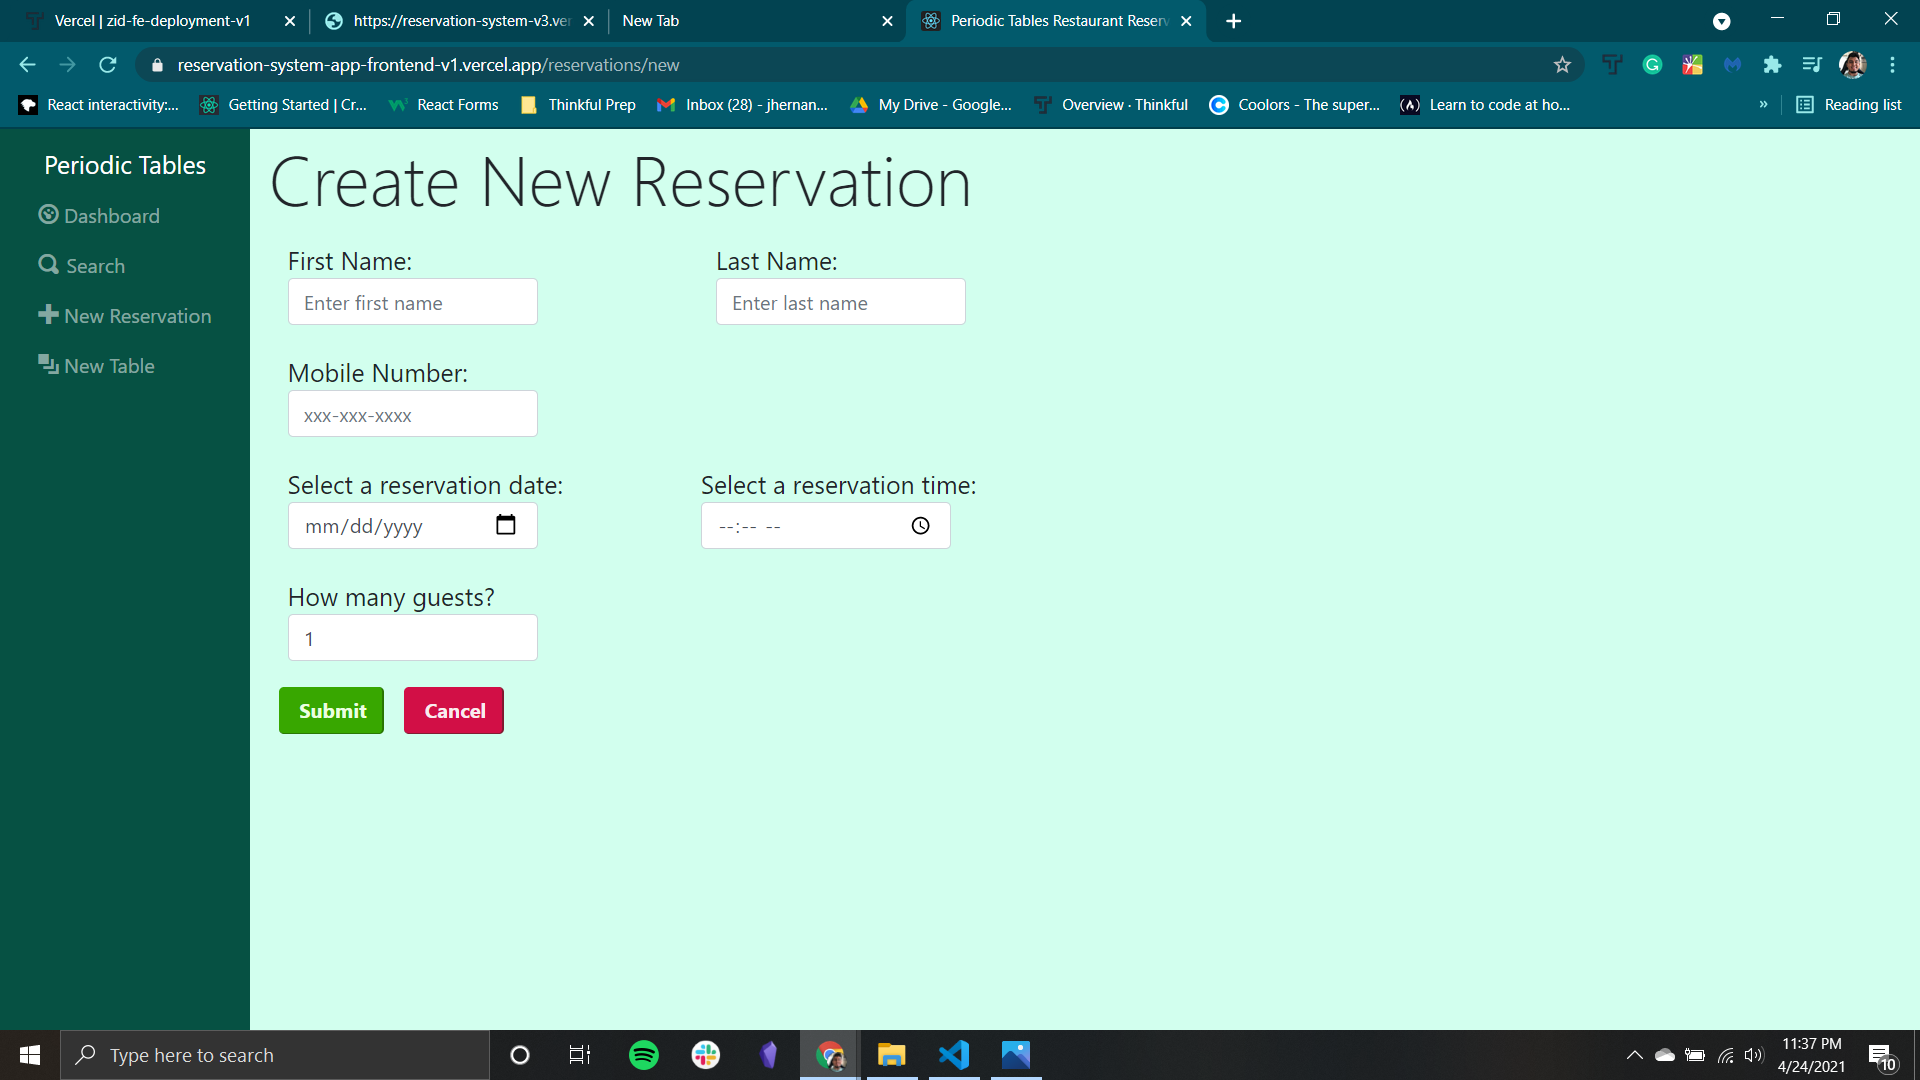
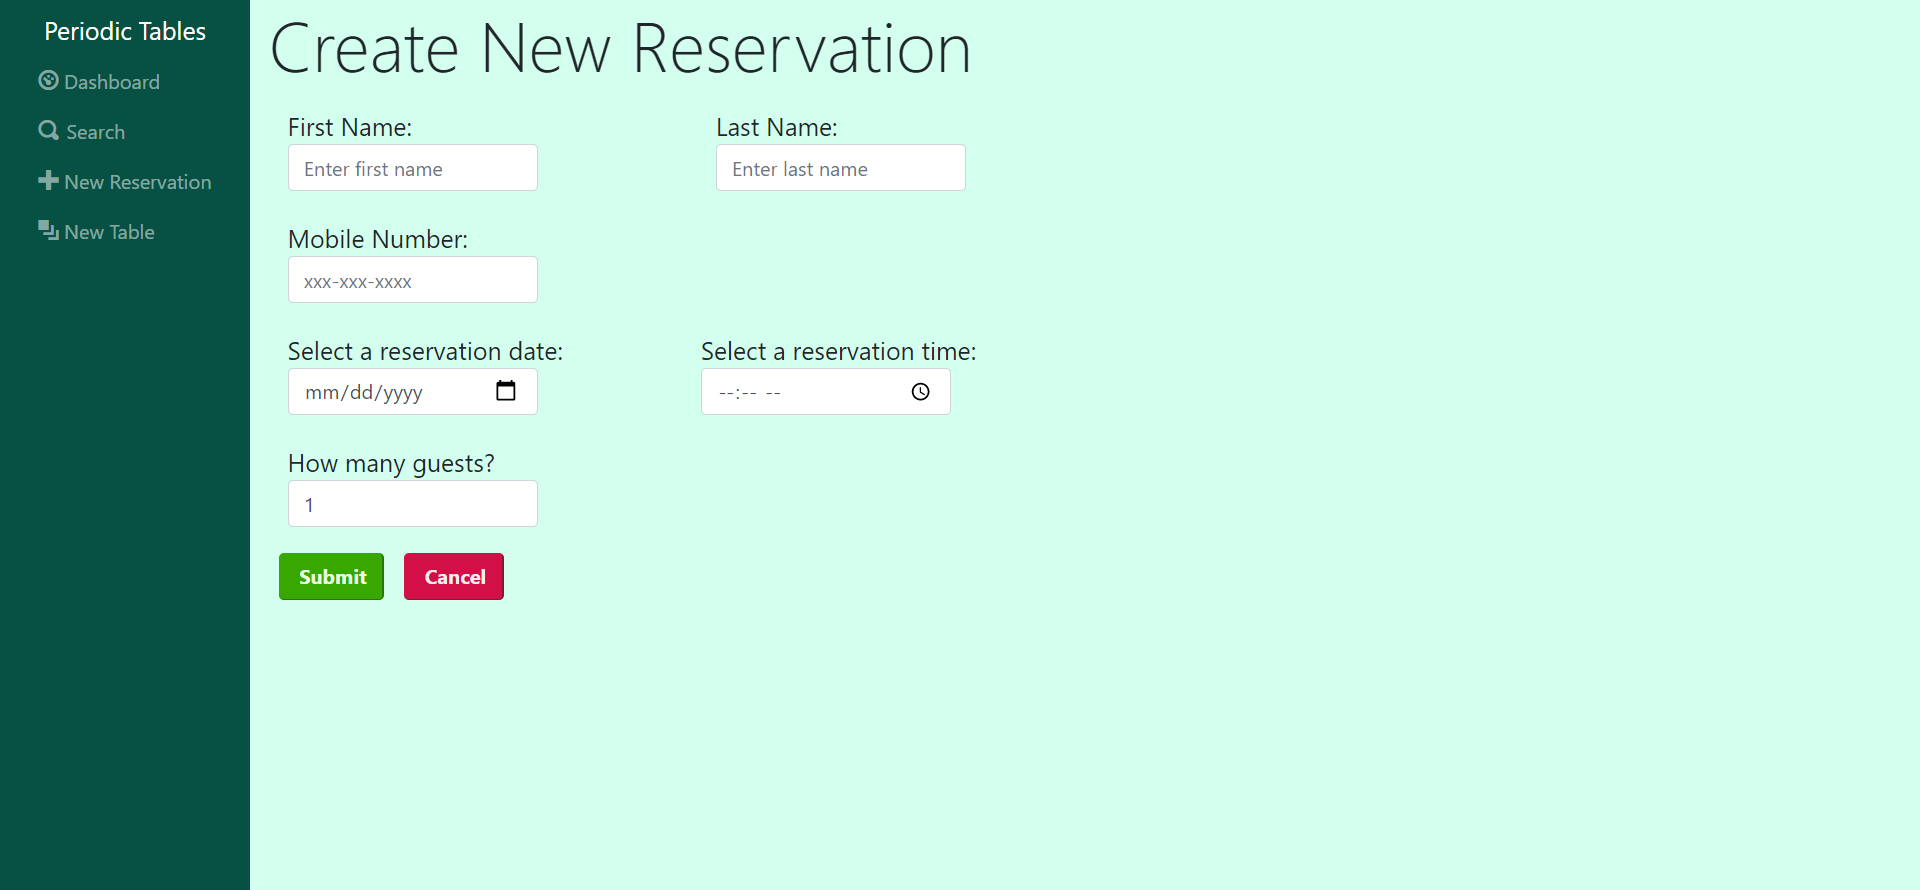
update README.md

diff --git a/README.md b/README.md
@@ -3,6 +3,11 @@ This is a Full Stack Application for a Restaurant Reservation System. Follow the
 
 ![dashboard with reservation cards](https://github.com/JonOdyssey/starter-restaurant-reservation/blob/main/front-end/public/screenshots/reservation-dashboard-1.png)
 
+
+![dashboard with no reservation cards](https://github.com/JonOdyssey/starter-restaurant-reservation/blob/main/front-end/public/screenshots/reservation-dashboard-2.png)
+
+1[form for new reservations](https://github.com/JonOdyssey/starter-restaurant-reservation/blob/main/front-end/public/screenshots/reservation-new-1.png)
+
 ## Installation
 1. Fork / clone this repository.
 1. Run `npm install`.
